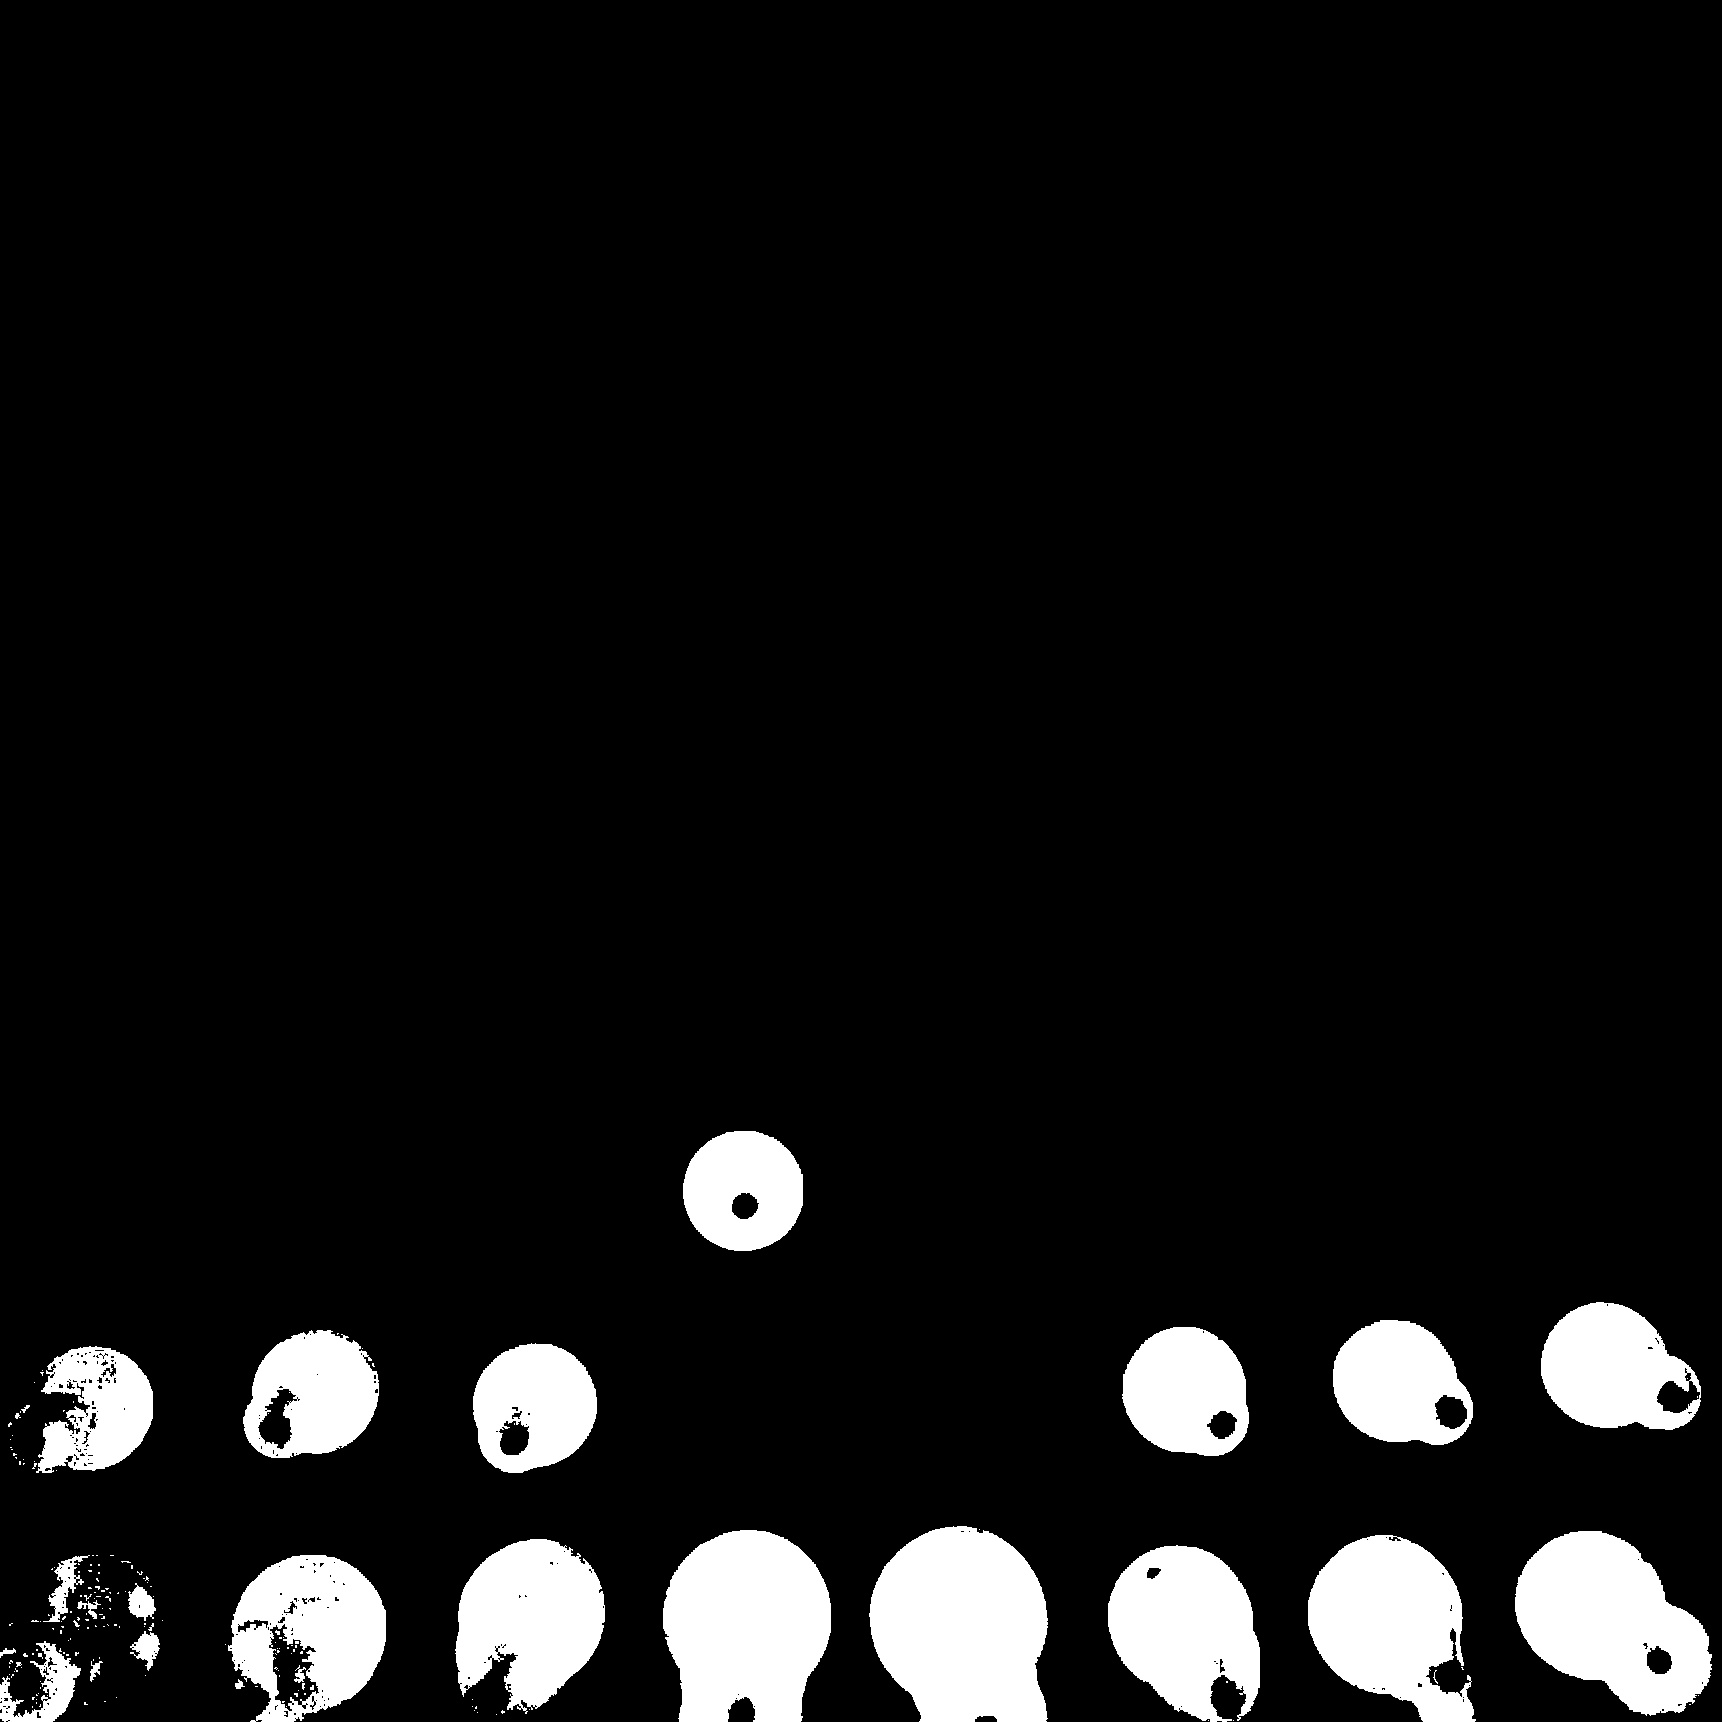
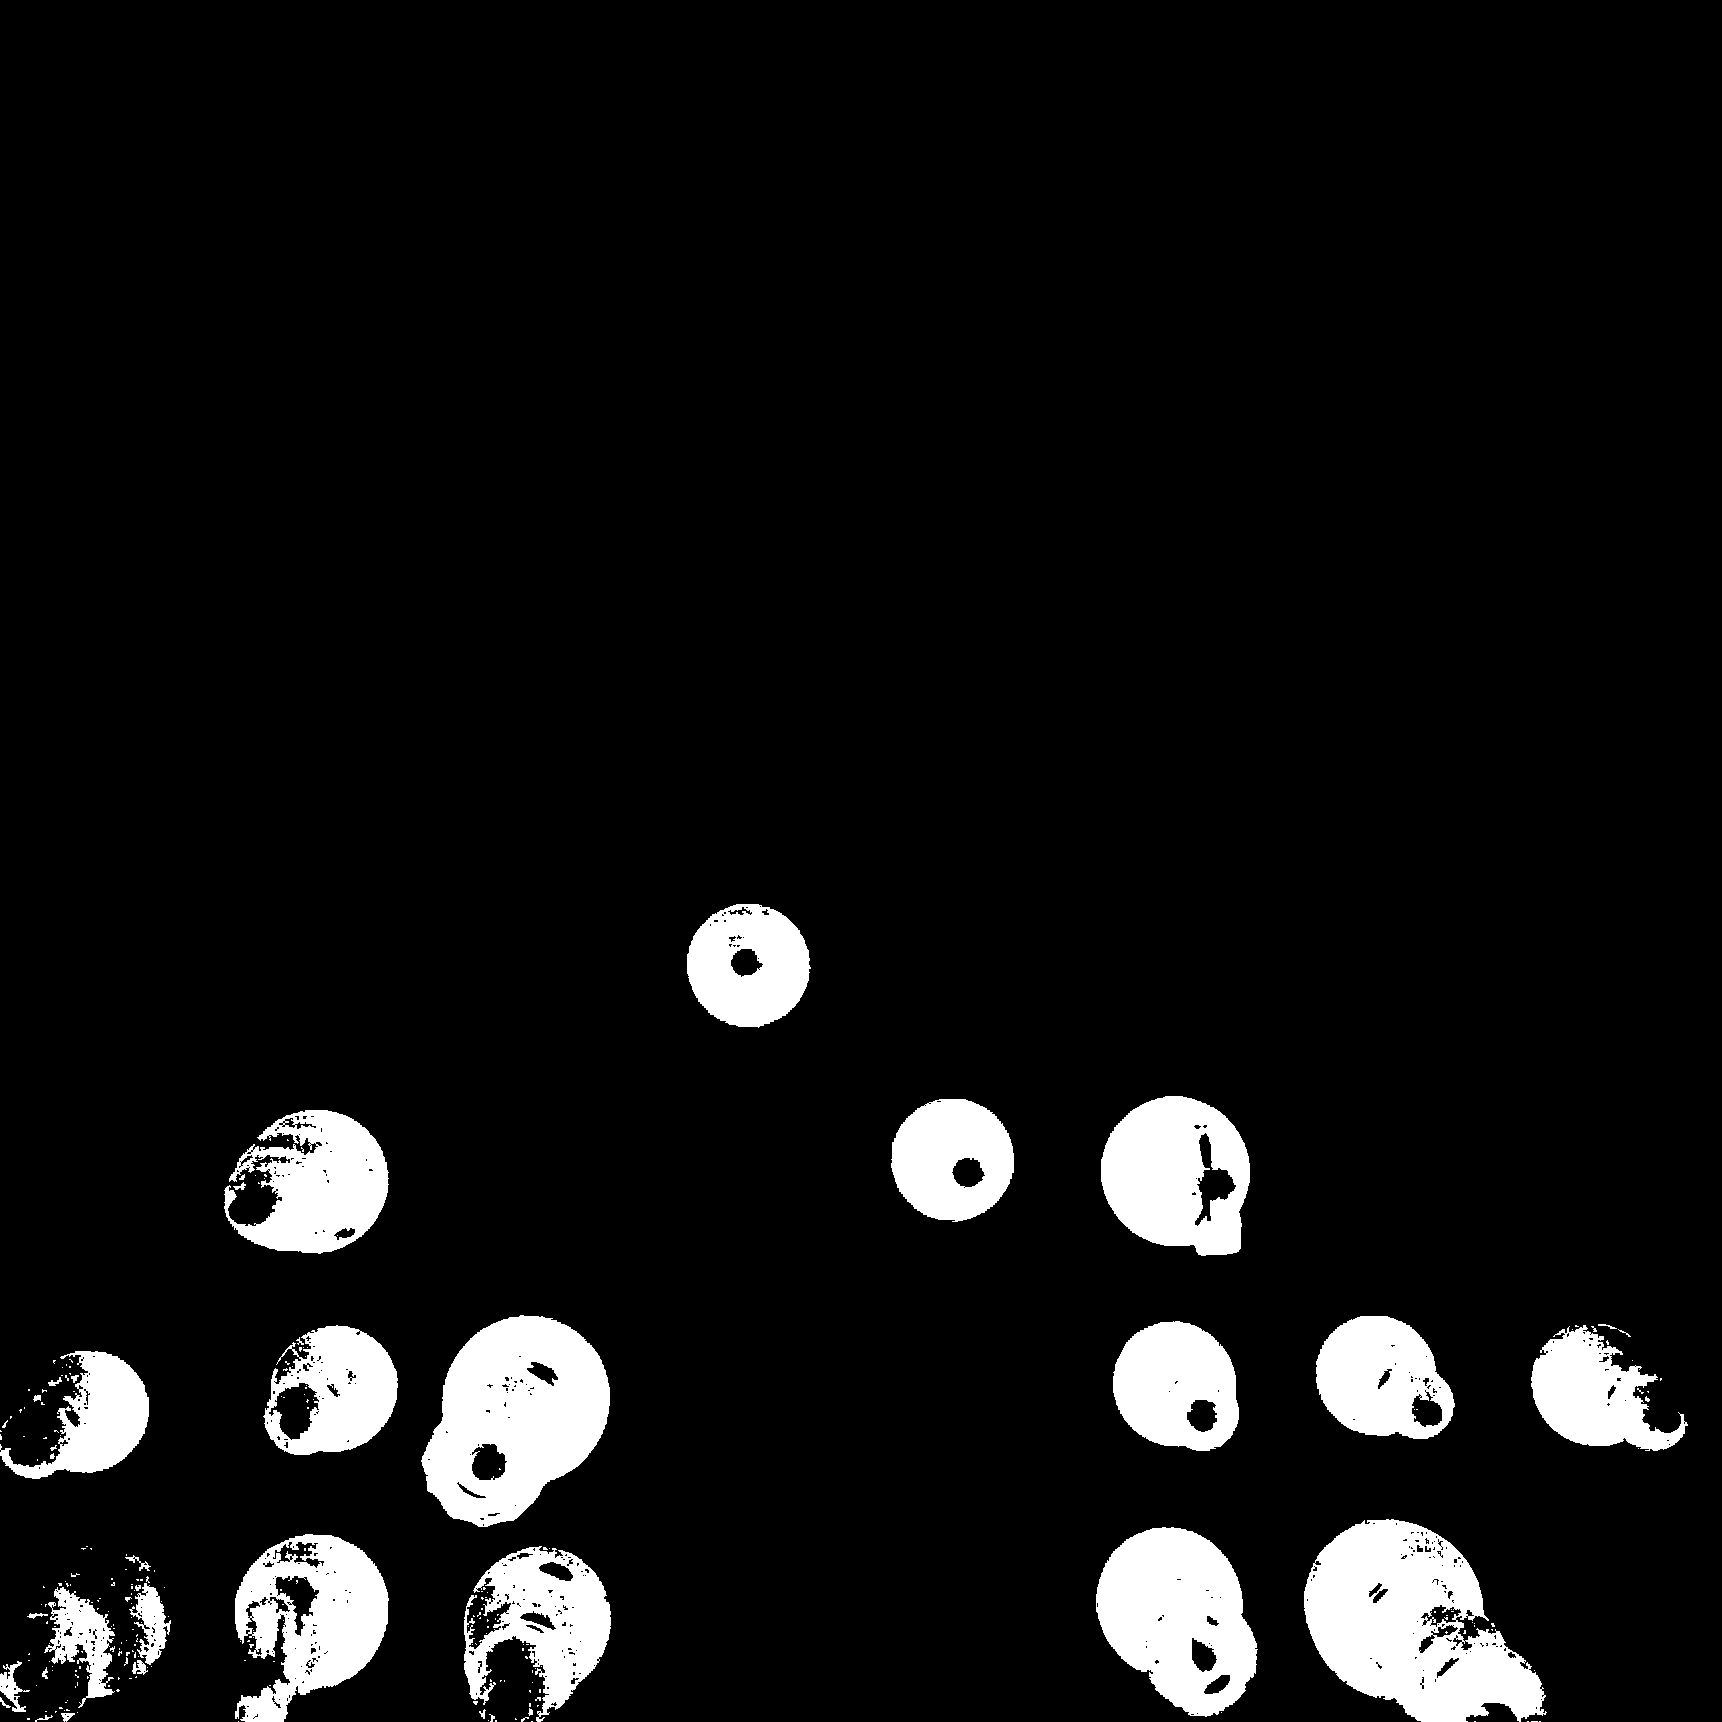
Vision upload

diff --git a/rpi/core.py b/rpi/core.py
@@ -41,6 +41,7 @@ def main():
     displayed = 0
     prevdisplayed = 0
     current = 0
+    difficulty = 1
     
     
     #wait for board to be set up correctly
@@ -61,7 +62,7 @@ def main():
     
     #Entering main loop
     while True:
-        time.sleep(0.25)
+        time.sleep(0.1)
         #Photograph board and decode state
         current_state = capture_board_state(camera)
         """
@@ -75,45 +76,51 @@ def main():
             current_state = capture_board_state(camera)
             current_move = decode_move(board, current_state)
             if (current_move != None) and (current_move == move):
-                #board.push(move)
+                board.push(move)
                 if(current == displayed):
                     #update players resposne to screen
                     BoardDisplay(spi, board)
                     
                 #calculate compuers response
-                result = engine.play(board, chess.engine.Limit(time=0.5))
-                result.move = chess.Move.from_uci("e8g8")
-                if (False):
-                #if board.piece_at(result.move.to_square):
+                
+                if difficulty == 1:
+                    result = engine.play(board, chess.engine.Limit(time=0.001, depth = 1))
+                elif difficulty == 2:
+                    result = engine.play(board, chess.engine.Limit(time=0.05, depth = 5))                
+                else:
+                    result = engine.play(board, chess.engine.Limit(time=0.1, depth = 20))
+                
+                #result.move = chess.Move.from_uci("e8c8")
+                #if False:
+                if board.piece_at(result.move.to_square):
                     Take(spi, result.move, int(board.piece_at(result.move.from_square).piece_type), int(board.piece_at(result.move.to_square).piece_type))
                 else:
                     if(board.piece_at(result.move.from_square).piece_type == chess.KING and (result.move.uci() == "e8g8" or result.move.uci() == "e8c8")):
                         print("Yeah")
-                        if(result.move.uci() == "e8g8"):                            
-                            Move(spi, result.move, int(board.piece_at(result.move.from_square).piece_type))
-                            time.sleep(1)
-                            while(DoneYet(spi) == 0):
-                                time.sleep(2)
-                            print("Moving Rook")
-                            Move(spi, chess.Move.from_uci("h8f8"), int(chess.ROOK))
+                        if(result.move.uci() == "e8g8"):
+                            print("Castle")
+                            time.sleep(0.3)       
+                            Castle(spi, KINGSIDE)
+                            time.sleep(2)
+                            while(DoneYet(spi) != 1):
+                                time.sleep(1)
                         if(result.move.uci() == "e8c8"):
-                            Move(spi, result.move, int(board.piece_at(result.move.from_square).piece_type))
-                            time.sleep(1)
-                            while(DoneYet(spi) == 0):
-                                time.sleep(2)
-                            print("Moving Rook")
-                            Move(spi, chess.Move.from_uci("a8d8"), int(chess.ROOK))
+                            print("Queenside castle")
+                            time.sleep(0.3)
+                            Castle(spi, QUEENSIDE)
+                            time.sleep(2)
+                            while(DoneYet(spi) != 1):
+                                time.sleep(1)
                     else:
                         print("else")
                         Move(spi, result.move, int(board.piece_at(result.move.from_square).piece_type))
                 
-                #board.push(result.move)
+                board.push(result.move)
                 print(board)
                 print(move)
                 time.sleep(1)
                 print("Waiting for done signal")
-                DoneYet(spi)
-                while(DoneYet(spi) == 0):
+                while(DoneYet(spi) != 1):
                     time.sleep(2)
                     #current_state = capture_board_state(camera)
                 print("Done")
@@ -128,10 +135,10 @@ def main():
                 print("Orange's move")
 
         else:
-            time.sleep(0.25)
+            time.sleep(0.3)
             #check to see if user wants to have different state displayed on monitor
  
-            if(CheckReset(spi)):
+            if(CheckReset(spi) == 1):
                 time.sleep(0.5)
                 if not CheckReset(spi):
                     break
@@ -148,7 +155,9 @@ def main():
                     print("Waiting for board to be reset")
                     time.sleep(2)
             else:
-                
+                time.sleep(0.15)
+                difficulty = CheckDif(spi)
+                time.sleep(0.15)
                 
                 displayed= CheckNew(spi)
     #            displayed, reset_game, difficulty = CheckNew(spi)
@@ -166,13 +175,14 @@ def main():
                 print(current)
                 print("displayed board state")
                 print(displayed)
+
                 sendboard = previous_board(board, current, displayed)
                 """
                 while(sendboard == None):
                     sendboard = previous_board(board, current, displayed)
                 """
                 print("board about to be updated")
-
+                time.sleep(0.15)
                 #input("Send Board")
                 BoardDisplay(spi, sendboard)
                 #prevdisplayed = displayed

diff --git a/rpi/comms.py b/rpi/comms.py
@@ -13,6 +13,12 @@ ANY_NEW =       0x03;
 BOARD_DISPLAY = 0x04;
 TAKE =          0x05;
 RESET =         0x06;
+CASTLE =        0x07;
+DIFFICULTY =    0x08;
+
+CASTLING =      0x09;
+KINGSIDE =      0x01;
+QUEENSIDE =     0x00;
 
 def main():
     spi = init_spi()
@@ -31,6 +37,24 @@ def main():
     while True:
         input("send START")
         Start(spi)
+        
+        input("Kingside")
+        Castle(spi, KINGSIDE)
+        
+        input("Queenside")
+        Castle(spi, QUEENSIDE)
+        
+        input("send take")
+        move = chess.Move.from_uci("b7b8")
+        Take(spi, move, chess.PAWN, chess.QUEEN)
+        
+        input("send take")
+        move = chess.Move.from_uci("c8a7")
+        Take(spi, move, chess.PAWN, chess.QUEEN)
+        
+        input("send take")
+        move = chess.Move.from_uci("a7b8")
+        Take(spi, move, chess.PAWN, chess.QUEEN)
         """
         input("send move")
         move = chess.Move.from_uci("b8b7")
@@ -45,8 +69,7 @@ def main():
 
         input("send take")
         move = chess.Move.from_uci("b1b2")
-        Move(spi, move, chess.QUEEN)
-        #Take(spi, move, chess.PAWN, chess.QUEEN)
+        Take(spi, move, chess.PAWN, chess.QUEEN)
             
         
         input("send check for new values command")
@@ -73,6 +96,16 @@ def Start(spi):
     gbg = spi.xfer([START])
     return
 
+def Castle(spi):
+    #use this funciton while castle to decrement far side count
+    gbg = spi.xfer([CASTLE])
+    return
+    
+def Castle(spi, side):
+    #use this funciton while castle to decrement far side count
+    gbg = spi.xfer([CASTLING, side])
+    return
+
 def Move(spi, move, place):
     From = move.from_square
     to = move.to_square
@@ -84,9 +117,7 @@ def Move(spi, move, place):
 def Take(spi, move, place, pickup):
     From = move.from_square
     to = move.to_square
-    print(pickup)
-    print(place)
-    
+
     message = [TAKE, From, to, place, pickup]
     spi.xfer2(message)
     return
@@ -113,7 +144,12 @@ def BoardDisplay(spi, board):
     message[0] = '\x04'
 
     spi.writebytes2(message)
-    
+
+def CheckDif(spi):
+    message = [DIFFICULTY, 0]
+    data = spi.xfer2(message)
+    return data[1]
+
 def to_char(board):
     positions = np.chararray(65)
     for x in range(64):

diff --git a/rpi/vision.py b/rpi/vision.py
@@ -40,19 +40,21 @@ def capture_board_state(camera):
     camera.capture(board, format='rgb')
     #raw camera capture produces BGR color pixels, converted to RGB using cv2
     board = cv2.cvtColor(board, cv2.COLOR_BGR2RGB)
-    #cv2.imwrite('raw.jpg', board)
+    
+    cv2.imwrite('raw.jpg', board)
     board = perspective_transform(board, corners)
     board = rotate(board, 90)
-    #cv2.imwrite('board.jpg', board)
+    cv2.imwrite('board.jpg', board)
     
-    """    
+        
     hsv_img = cv2.cvtColor(board,cv2.COLOR_RGB2HSV)
 
     blue = cv2.inRange(hsv_img, blue_lower, blue_upper) 
     orange = cv2.inRange(hsv_img, orange_lower, orange_upper)
-    cv2.imwrite('orange.jpg', orange)
+    cv2.imwrite('hsv.jpg', hsv_img)
     cv2.imwrite('blue.jpg', blue)
-   """ 
+    cv2.imwrite('orange.jpg', orange)
+   
     #produce color map based on board layout
     positions = read_board(board)
     return positions
